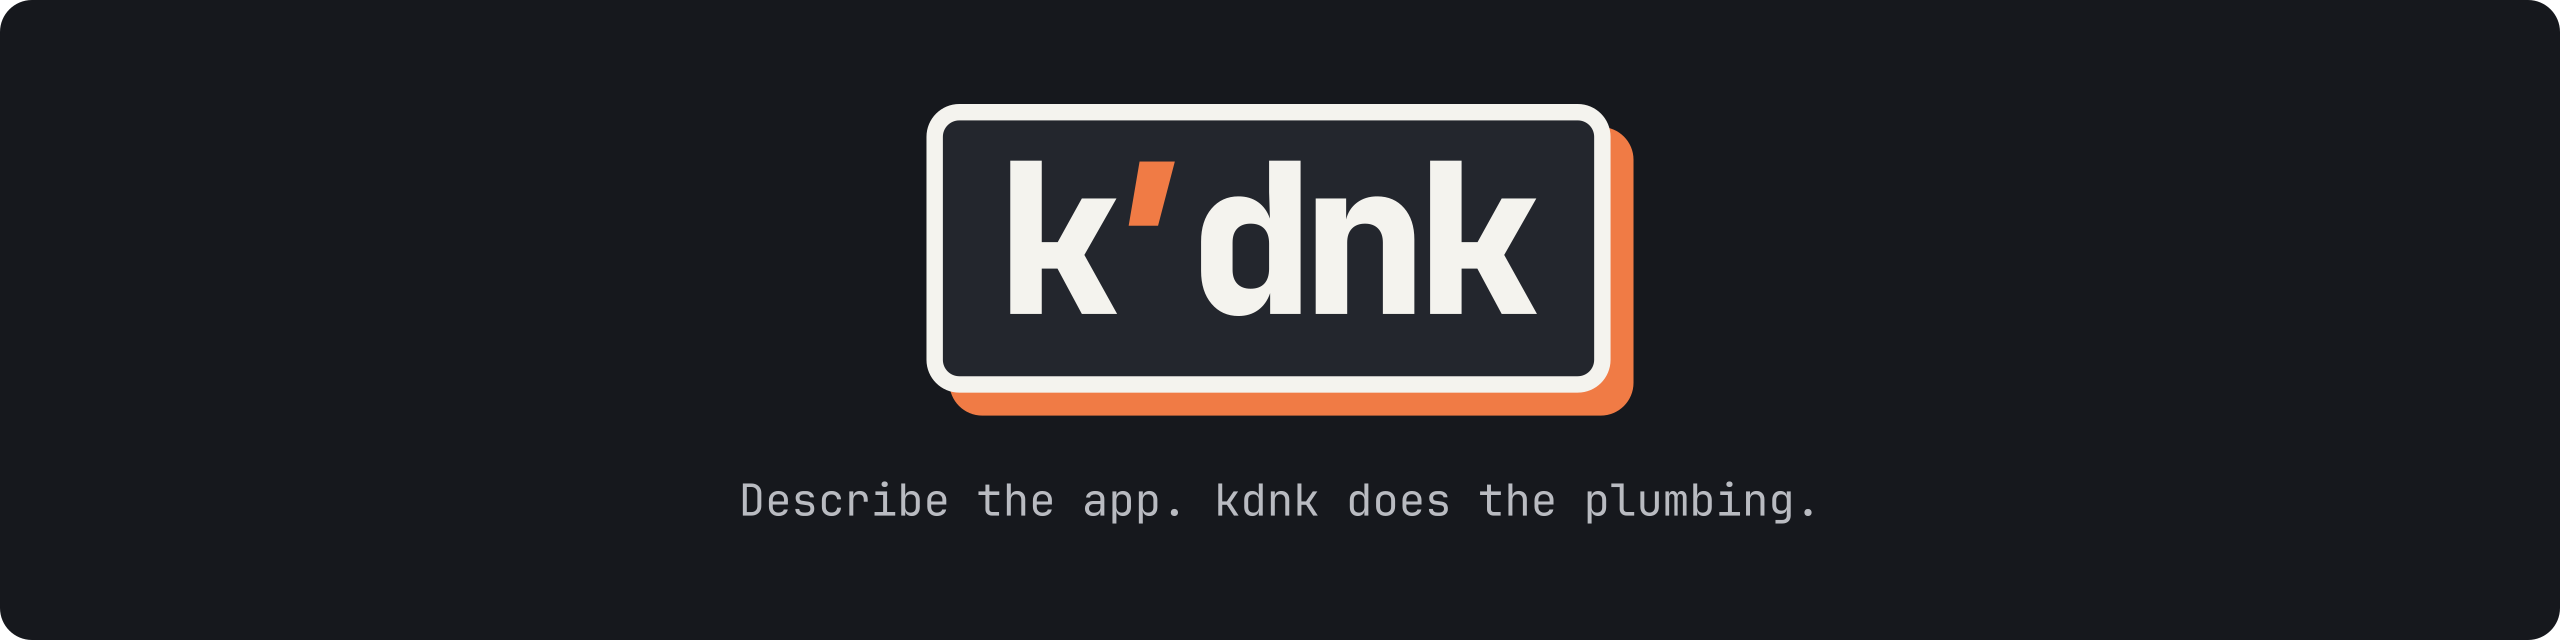
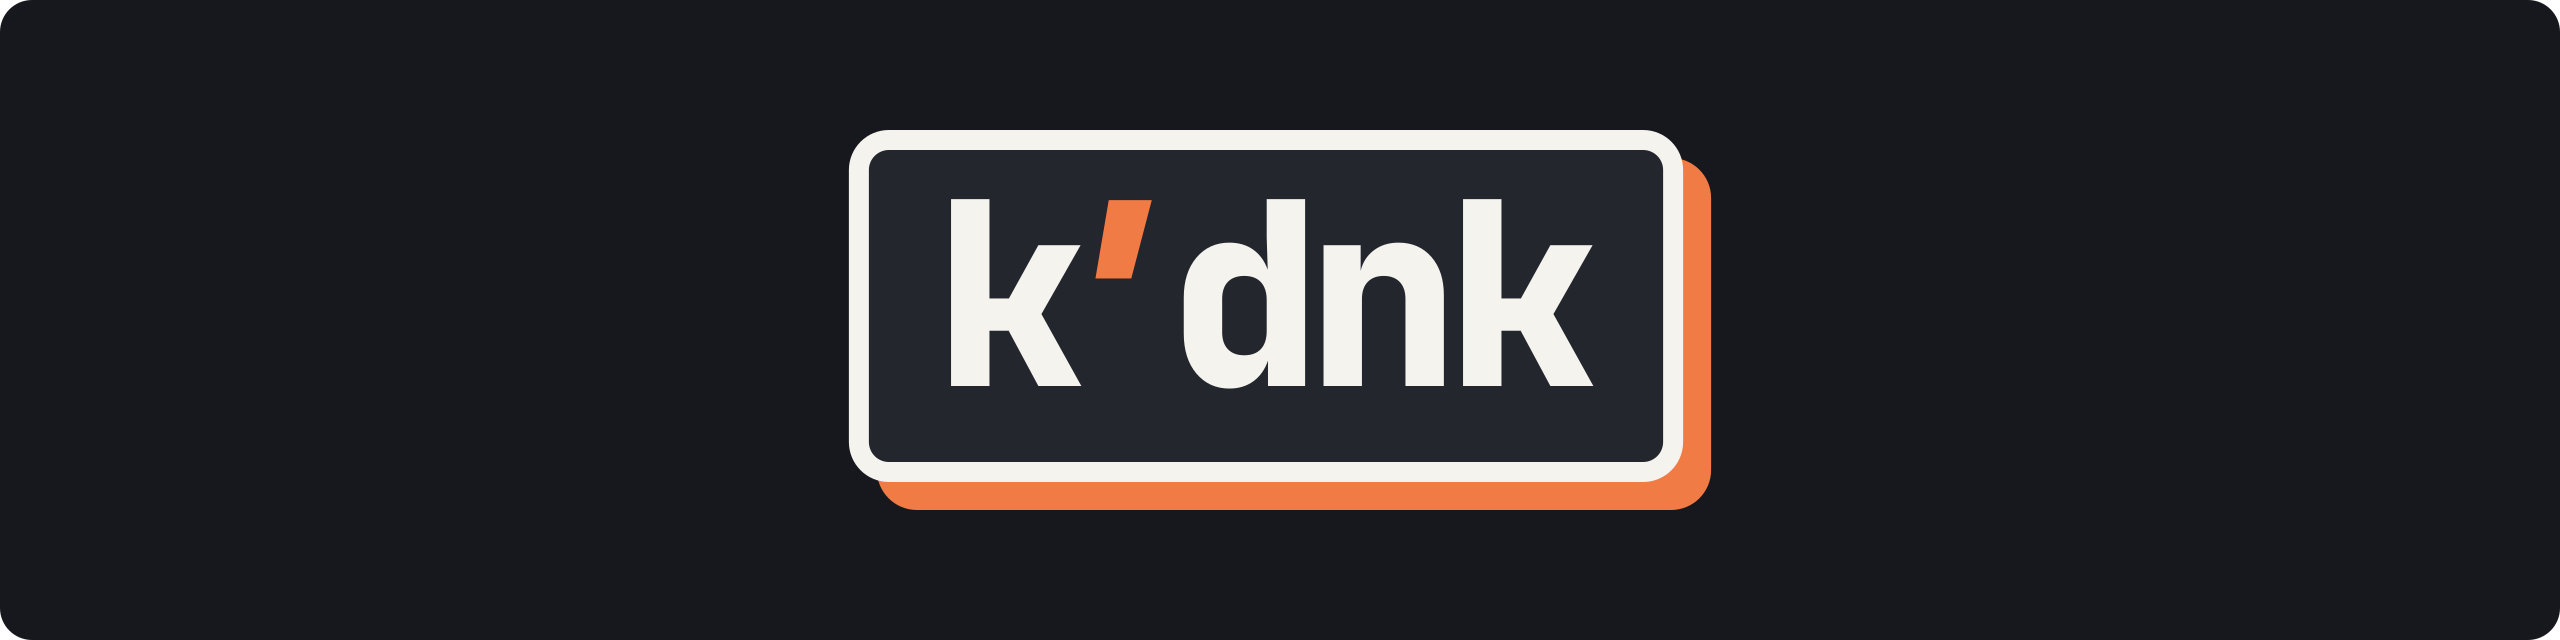
Update brand assets and documentation readme

Changed region(s): [[0.2812, 0.1562, 0.7188, 0.8125]]

diff --git a/brand/README.md b/brand/README.md
@@ -24,8 +24,8 @@ All letters are converted to vector outlines (JetBrains Mono ExtraBold / Regular
 
 ```html
 <picture>
-  <source media="(prefers-color-scheme: dark)" srcset="brand/kdnk-banner-dark.svg">
-  <img alt="kdnk: Describe the app. kdnk does the plumbing." src="brand/kdnk-banner-light.svg">
+  <source media="(prefers-color-scheme: dark)" srcset="docs/assets/kdnk-banner-dark.svg">
+  <img alt="kdnk" src="docs/assets/kdnk-banner-light.svg">
 </picture>
 ```
 
